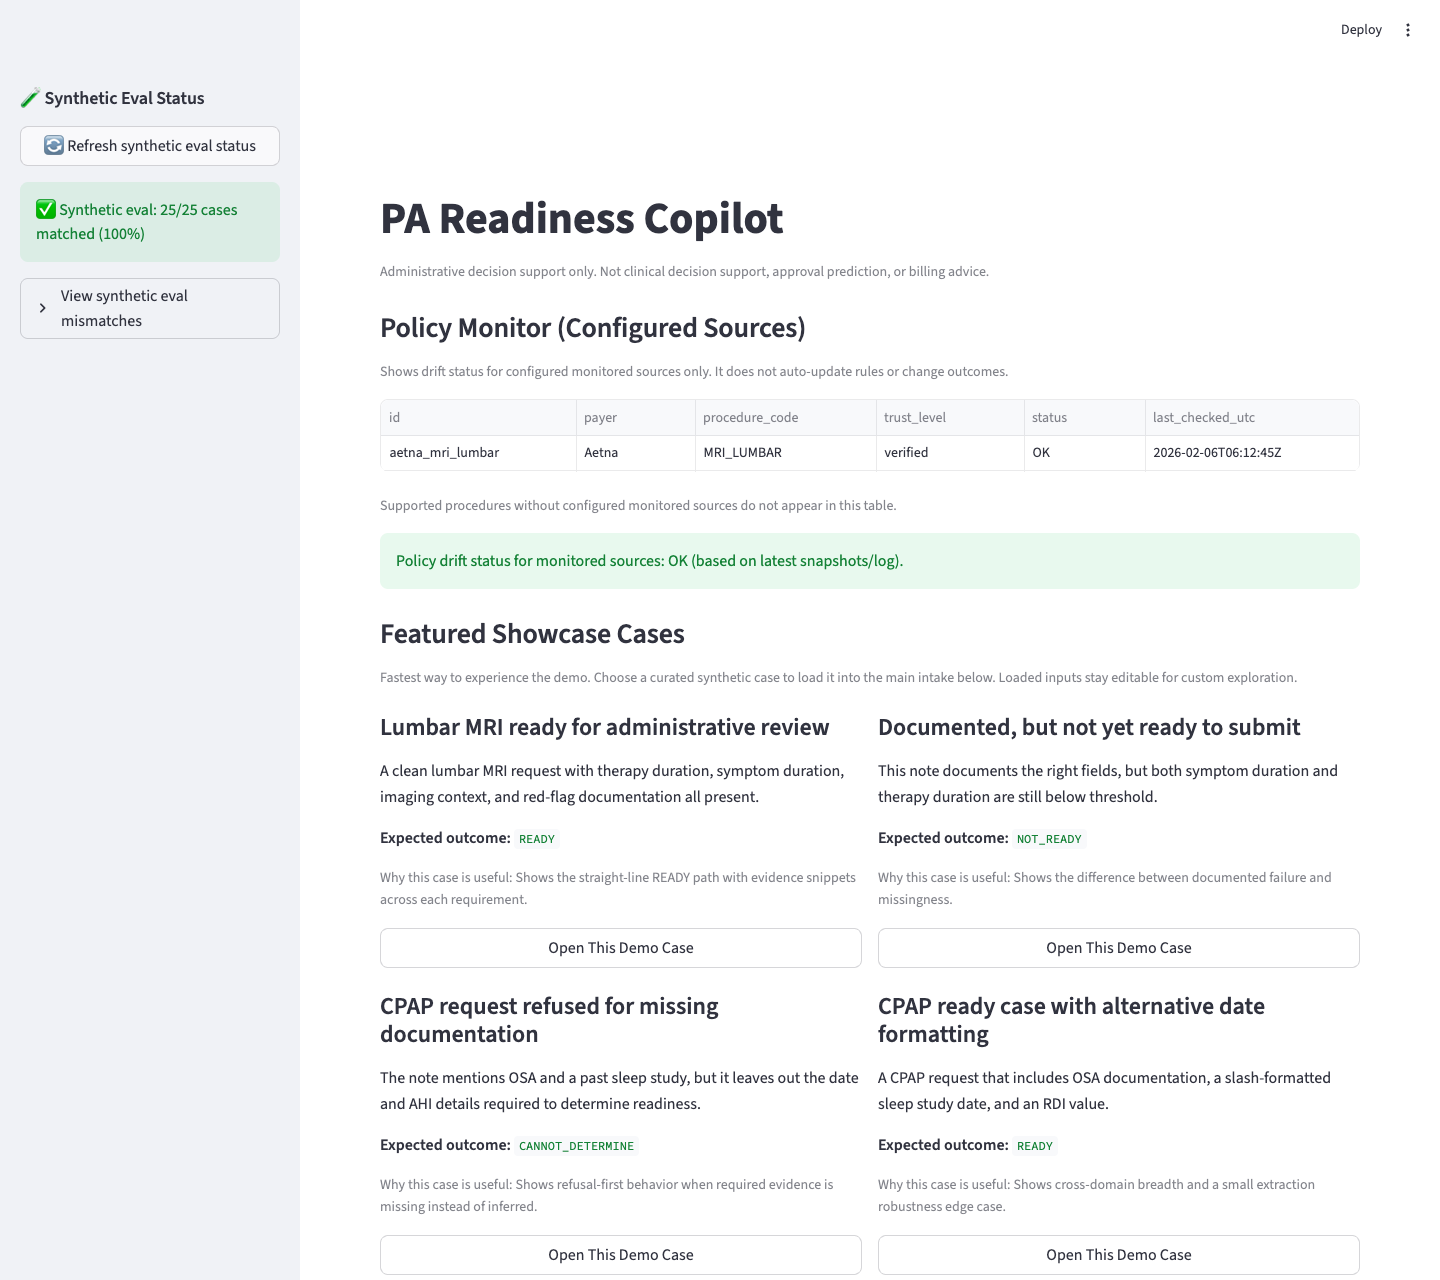
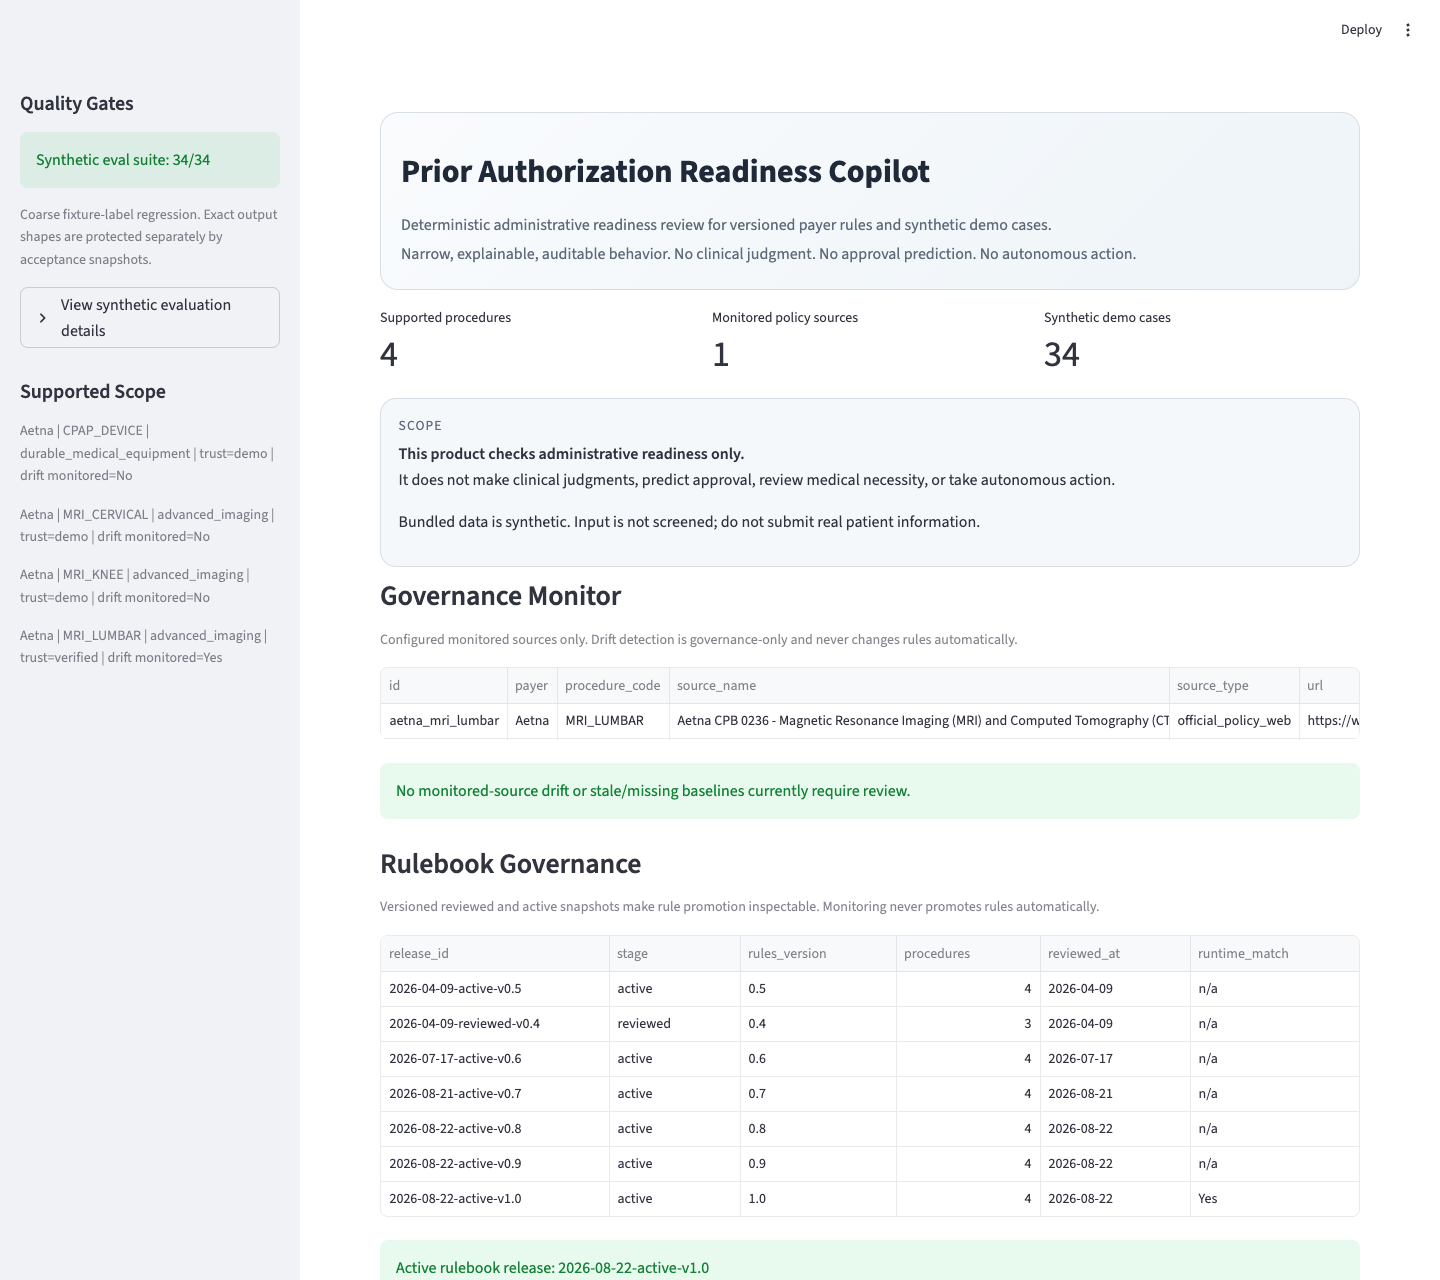
Align portfolio with PA Copilot v1.0

diff --git a/data/projects.js b/data/projects.js
@@ -41,7 +41,7 @@
       kicker: "Healthcare AI / AI PM",
       title: "Healthcare AI workflow automation with evaluation guardrails.",
       intro:
-        "Public artifacts in prior authorization readiness, clinical-style LLM evaluation, and alert-budget analysis. The common thread is bounded automation: evidence mapping, refusal states, human review, and explicit non-deployment boundaries.",
+        "Public artifacts in prior authorization readiness, clinical-style LLM evaluation, and alert-budget analysis. The common thread is bounded automation: deterministic evidence mapping, refusal and review states, policy provenance, human oversight, and explicit non-deployment boundaries.",
       note:
         "Personal project artifacts only: prototype, benchmark harness, and retrospective case study. Not deployed clinical software.",
       pillars: [
@@ -57,8 +57,8 @@
           detail: "Repo, docs, and screenshots are linked from the homepage."
         },
         {
-          title: "Rules, refusal, and HITL boundaries",
-          detail: "Missing evidence, reviewer checkpoints, and scope limits stay explicit."
+          title: "Policy provenance and refusal boundaries",
+          detail: "One narrow Aetna pathway is source-backed; demo trust, missing evidence, and human review stay explicit."
         },
         {
           title: "Reviewable evaluator outputs",
@@ -90,40 +90,44 @@
         title: "Prior Authorization Copilot",
         status: "Portfolio prototype",
         artifactType: "Personal project",
-        scopeLabel: "Administrative decision support only",
+        scopeLabel: "Administrative readiness only",
         summary:
-          "Rules-first prior auth readiness review for administrative workflows before submission.",
+          "Deterministic prior-authorization readiness review with evidence-to-rule traceability before submission.",
         primaryProof:
-          "Repo includes versioned rules, evidence mapping, and refusal-aware readiness states.",
+          "The v1.0 rulebook maps note evidence to extracted facts, explicit operators, requirement results, and an overall decision.",
         proofNote:
-          "Missing documentation stays visible as CANNOT_DETERMINE rather than hidden.",
+          "Four outcomes keep missing, failing, and unevaluable evidence distinct; verified trust is scoped to one payer/procedure pathway.",
         evidenceBullets: [
-          "READY, NOT_READY, and CANNOT_DETERMINE outputs are backed by evidence mapping.",
-          "Versioned payer-style rules and requirement checks are reviewable in the repo.",
-          "Failure modes and scope boundaries are documented alongside the demo."
+          "READY, NOT_READY, CANNOT_DETERMINE, and NEEDS_REVIEW follow fail-closed status semantics.",
+          "Only Aetna:MRI_LUMBAR has verified official-policy provenance, limited to one CPB 0236 radiculopathy branch.",
+          "MRI_CERVICAL, MRI_KNEE, and CPAP_DEVICE remain synthetic demo rules and do not inherit verified trust."
         ],
         tags: [
-          "Workflow automation",
-          "Rules-first governance",
-          "Refusal-aware support"
+          "Deterministic evaluation",
+          "Policy provenance",
+          "Refusal + human review"
         ],
         problemStatement:
-          "Prior auth work breaks down when documentation gaps are discovered late, after staff have already spent time reviewing or drafting the submission.",
+          "Prior auth work breaks down when documentation gaps or policy mismatches surface late and reviewers cannot trace how note evidence produced a readiness result.",
         whatIBuilt:
-          "A deterministic extraction and requirement-checking flow against versioned payer-style rules, with READY, NOT_READY, and CANNOT_DETERMINE outputs plus evidence mapping.",
+          "A deterministic extraction and evaluation flow against payer-qualified, versioned rules. It exposes note evidence → extracted fact → rule/operator → requirement result → overall decision, with explicit READY, NOT_READY, CANNOT_DETERMINE, and NEEDS_REVIEW outcomes.",
         whyItMatters:
-          "The review path is inspectable: blockers stay explicit instead of being inferred away.",
+          "The review path is inspectable and reproducible: blockers stay explicit, trust stays procedure-scoped, and policy evidence is not silently generalized.",
         proofPoints: [
-          "Versioned payer-style rules define what counts as evidence.",
-          "Missing evidence triggers refusal-aware outputs instead of guessed approvals.",
-          "Structured evidence mapping keeps each blocker traceable.",
-          "Public artifacts include rules, contracts, failure modes, a model card, and a local demo UI."
+          "Evaluation is deterministic rather than free-form LLM adjudication; immutable releases preserve payer-qualified rule identity and make rulebook changes reviewable.",
+          "The verified pathway is grounded in Aetna Clinical Policy Bulletin 0236 — Magnetic Resonance Imaging (MRI) and Computed Tomography (CT) of the Spine.",
+          "That implemented branch requires persistent back pain with radiculopathy, objective motor/reflex findings in an explicit nerve-root distribution, at least six weeks of qualifying conservative therapy, and explicit lack of improvement.",
+          "The verified chain is official policy → policy metadata/hash → clause mapping → structured rule → extracted evidence → deterministic evaluation.",
+          "Requirement-level evidence spans, explicit operators, and fail-closed status semantics keep each result traceable.",
+          "Source hashing and scoped policy-drift monitoring can downgrade the affected payer/procedure from verified to demo when provenance checks fail.",
+          "Adversarial extraction tests, regression cases, and generated artifacts make representative outputs reproducible."
         ],
         limitations: [
-          "Not approval prediction and not a clinical decision tool.",
-          "No EHR, payer, or clearinghouse integration.",
-          "Synthetic demo cases only; limited procedure coverage.",
-          "Policy-drift monitoring applies only to configured sources."
+          "Administrative readiness prototype only: not approval prediction, medical-necessity adjudication, or clinical decision support.",
+          "Only Aetna:MRI_LUMBAR is verified, and only for CPB 0236's persistent-back-pain-with-radiculopathy alternative; other bulletin indications are not modeled.",
+          "MRI_CERVICAL, MRI_KNEE, and CPAP_DEVICE remain synthetic/demo pathways; all bundled cases are synthetic.",
+          "CPB 0236 does not state that every listed modality or a specific combination is mandatory. Under the prototype's interpretation, moderate activity, analgesics, NSAIDs/anti-inflammatory medication, or muscle relaxants can establish therapy type; qualifying duration must be individually documented, and shorter sequential courses are not summed unless overall duration is explicit.",
+          "No production PHI handling, payer/EHR/clearinghouse integration, or production-grade policy management; drift monitoring is scoped and governance-only."
         ],
         links: [
           {
@@ -143,29 +147,29 @@
           {
             src: "assets/screenshots/prior-auth/prior-auth-main-desktop.png",
             alt:
-              "Prior Authorization Copilot intake and review surface with demo cases, payer inputs, and bounded administrative workflow framing.",
+              "Prior Authorization Copilot current intake and governance surface with verified and demo trust labels, versioned rulebook status, and synthetic demo cases.",
             title: "Main workflow surface",
-            note: "Live Streamlit capture of the intake and review flow.",
+            note: "Live Streamlit capture of the current scope, governance, and intake flow.",
             placeholder: false
           },
           {
             src: "assets/screenshots/prior-auth/prior-auth-results-desktop.png",
             alt:
-              "Prior Authorization Copilot results state showing refusal-first readiness output, blockers, extracted facts, and audit detail.",
-            title: "Results and blockers",
-            note: "Real showcase-case capture of the structured outputs surface.",
+              "Prior Authorization Copilot CANNOT_DETERMINE result with a compact evidence-to-fact-to-rule-to-requirement decision trace.",
+            title: "Deterministic decision trace",
+            note: "Real current-app capture of evidence → fact → rule/operator → status.",
             placeholder: false
           }
         ],
         closedCardShotIndex: 1,
         onePagerSummary:
-          "Rules-first prior auth readiness review using deterministic extraction, requirement-level checks, and explicit refusal when evidence is missing.",
+          "Deterministic prior-auth readiness with one verified official-policy pathway. Administrative readiness prototype, not approval prediction or clinical decision support.",
         onePagerWhy:
-          "Shows workflow realism, refusal semantics, and auditability in an admin-heavy healthcare problem.",
+          "Shows healthcare workflow realism, deterministic product architecture, refusal-first design, policy provenance, and auditability.",
         onePagerSignals: [
-          "Workflow realism",
-          "Refusal-first design",
-          "Governance and auditability"
+          "Deterministic architecture",
+          "Policy provenance",
+          "Refusal + auditability"
         ]
       },
       {

diff --git a/scripts/capture_screenshots.js b/scripts/capture_screenshots.js
@@ -829,7 +829,7 @@ async function capturePriorAuth(browser, project, appUrl) {
 
   try {
     await desktop.page.goto(appUrl, { waitUntil: "domcontentloaded" });
-    await desktop.page.getByRole("heading", { name: "PA Readiness Copilot" }).waitFor({ timeout: 20000 });
+    await desktop.page.getByRole("heading", { name: "Prior Authorization Readiness Copilot" }).waitFor({ timeout: 20000 });
     await desktop.page.waitForTimeout(4500);
     await desktop.page.screenshot({
       path: path.join(outputDir, "prior-auth-main-desktop.png"),
@@ -837,8 +837,8 @@ async function capturePriorAuth(browser, project, appUrl) {
     });
     console.log("Saved assets/screenshots/prior-auth/prior-auth-main-desktop.png");
 
-    const policyHeading = desktop.page.getByRole("heading", { name: "Policy Monitor (Configured Sources)" });
-    const featuredHeading = desktop.page.getByRole("heading", { name: "Featured Showcase Cases" });
+    const policyHeading = desktop.page.getByRole("heading", { name: "Governance Monitor" });
+    const featuredHeading = desktop.page.getByRole("heading", { name: "Featured Demo Cases" });
     await policyHeading.waitFor({ timeout: 20000 });
     await featuredHeading.waitFor({ timeout: 20000 });
 
@@ -871,7 +871,7 @@ async function capturePriorAuth(browser, project, appUrl) {
   const mobile = await createPage(browser, "mobile");
   try {
     await mobile.page.goto(appUrl, { waitUntil: "domcontentloaded" });
-    await mobile.page.getByRole("heading", { name: "PA Readiness Copilot" }).waitFor({ timeout: 20000 });
+    await mobile.page.getByRole("heading", { name: "Prior Authorization Readiness Copilot" }).waitFor({ timeout: 20000 });
     await mobile.page.waitForTimeout(4500);
     await mobile.page.screenshot({
       path: path.join(outputDir, "prior-auth-main-mobile.png"),
@@ -882,7 +882,7 @@ async function capturePriorAuth(browser, project, appUrl) {
     await mobile.context.close();
   }
 
-  const repoResultsScreenshot = path.join(repoPath, "docs/images/prior-auth-copilot-demo.png");
+  const repoResultsScreenshot = path.join(repoPath, "assets/readme/prior-auth-readiness-demo.png");
   const outputResultsScreenshot = path.join(outputDir, "prior-auth-results-desktop.png");
 
   if (fs.existsSync(repoResultsScreenshot)) {

diff --git a/screenshots.config.js b/screenshots.config.js
@@ -41,14 +41,14 @@ module.exports = {
           id: "prior-auth-results-desktop",
           filename: "prior-auth-results-desktop.png",
           viewport: "desktopTall",
-          summary: "Results view after loading the refusal-first showcase case",
+          summary: "Current CANNOT_DETERMINE result with the compact deterministic decision trace",
           auto: true
         },
         {
           id: "prior-auth-governance-desktop",
           filename: "prior-auth-governance-desktop.png",
           viewport: "desktop",
-          summary: "Policy monitor and governance-oriented review surface",
+          summary: "Governance monitor and active immutable rulebook release",
           auto: true
         },
         {
@@ -70,13 +70,13 @@ module.exports = {
           filename: "prior-auth-results-desktop.png",
           viewport: "desktopTall",
           destination: "assets/screenshots/prior-auth",
-          target: "Results state for the refusal-style showcase case through Audit Summary."
+          target: "Current CANNOT_DETERMINE results state with the compact evidence-to-fact-to-rule-to-requirement trace visible."
         },
         {
           filename: "prior-auth-governance-desktop.png",
           viewport: "desktop",
           destination: "assets/screenshots/prior-auth",
-          target: "Policy Monitor section showing configured source status and drift review context."
+          target: "Governance Monitor and Rulebook Governance sections showing the scoped source status and active v1.0 release."
         },
         {
           filename: "prior-auth-main-mobile.png",

diff --git a/README.md b/README.md
@@ -19,6 +19,8 @@ Use this repo as the public starting point for portfolio review.
 3. Follow the flagship repo links only after the hub has established the scope: portfolio prototype, benchmark harness, and retrospective case study.
 4. Treat FHIR Referral Intake Review, Prior Auth Readiness Handoff Agent, and Daily AI Digest as supporting projects, not replacements for the three flagships.
 
+The Prior Authorization Copilot is presented as a deterministic administrative-readiness prototype. Only `Aetna:MRI_LUMBAR` has verified official-policy provenance, limited to one persistent-back-pain-with-radiculopathy pathway in Aetna CPB 0236; the cervical MRI, knee MRI, and CPAP pathways remain synthetic demos.
+
 Nothing in this route should be read as production deployment, PHI handling, medical advice, payer integration, FDA readiness, or clinical decision support.
 
 ## What is in this repo
@@ -83,7 +85,7 @@ npm run screenshots:check
 What the capture workflow does:
 
 - starts the local Prior Authorization Copilot Streamlit app and captures polished desktop and mobile screenshots
-- copies the checked-in real Prior Authorization Copilot results screenshot from the sibling repo so the structured output view stays stable and truthful
+- copies the checked-in current Prior Authorization Copilot results capture from the sibling repo so the compact evidence-to-decision trace stays stable and truthful
 - regenerates clean artifact pages for the Clinical AI Eval Sandbox from the local published result files, then captures them
 - regenerates clean artifact pages for the ICU Code Blue Early Warning reference run, then captures them
 - writes output into project-specific folders under [`assets/screenshots`](assets/screenshots)

diff --git a/assets/screenshots/MANUAL_CAPTURE_GUIDE.md b/assets/screenshots/MANUAL_CAPTURE_GUIDE.md
@@ -19,11 +19,11 @@ Required files:
 - Save as `prior-auth-results-desktop.png`
   Viewport: `desktopTall`
   Destination: `assets/screenshots/prior-auth`
-  Target: Results state for the refusal-style showcase case through Audit Summary.
+  Target: Current CANNOT_DETERMINE results state with the compact evidence-to-fact-to-rule-to-requirement trace visible.
 - Save as `prior-auth-governance-desktop.png`
   Viewport: `desktop`
   Destination: `assets/screenshots/prior-auth`
-  Target: Policy Monitor section showing configured source status and drift review context.
+  Target: Governance Monitor and Rulebook Governance sections showing the scoped source status and active v1.0 release.
 - Save as `prior-auth-main-mobile.png`
   Viewport: `mobile`
   Destination: `assets/screenshots/prior-auth`

diff --git a/assets/screenshots/README.md b/assets/screenshots/README.md
@@ -19,7 +19,7 @@ Workflow:
 The automated workflow uses a mix of:
 
 - live Playwright capture for the Prior Authorization Copilot Streamlit app
-- a direct copy of the checked-in real Prior Authorization Copilot results screenshot for the structured-output state
+- a direct copy of the checked-in current Prior Authorization Copilot results capture for the compact evidence-to-decision trace
 - generated artifact pages for the eval sandbox and ICU case study, built from real local result files before capture
 
 If a sibling repo or artifact set is missing, do not invent replacements. Use the manual guide, restore the source repo, and rerun the workflow.
